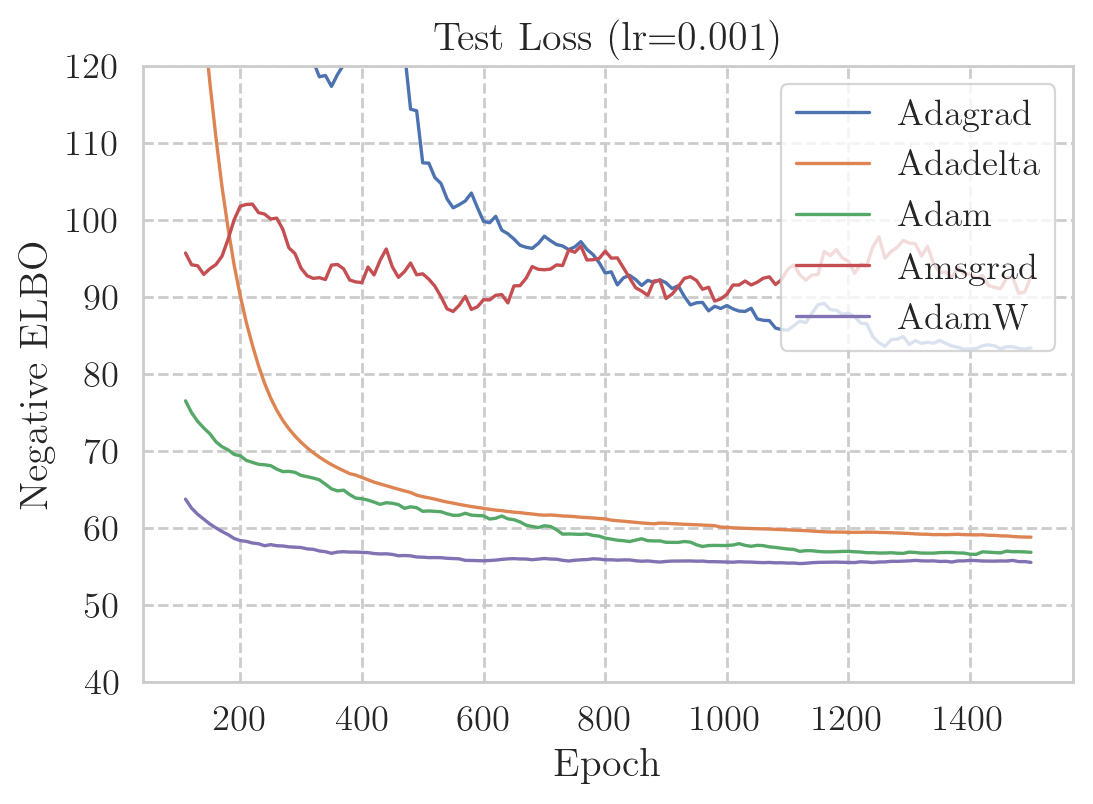
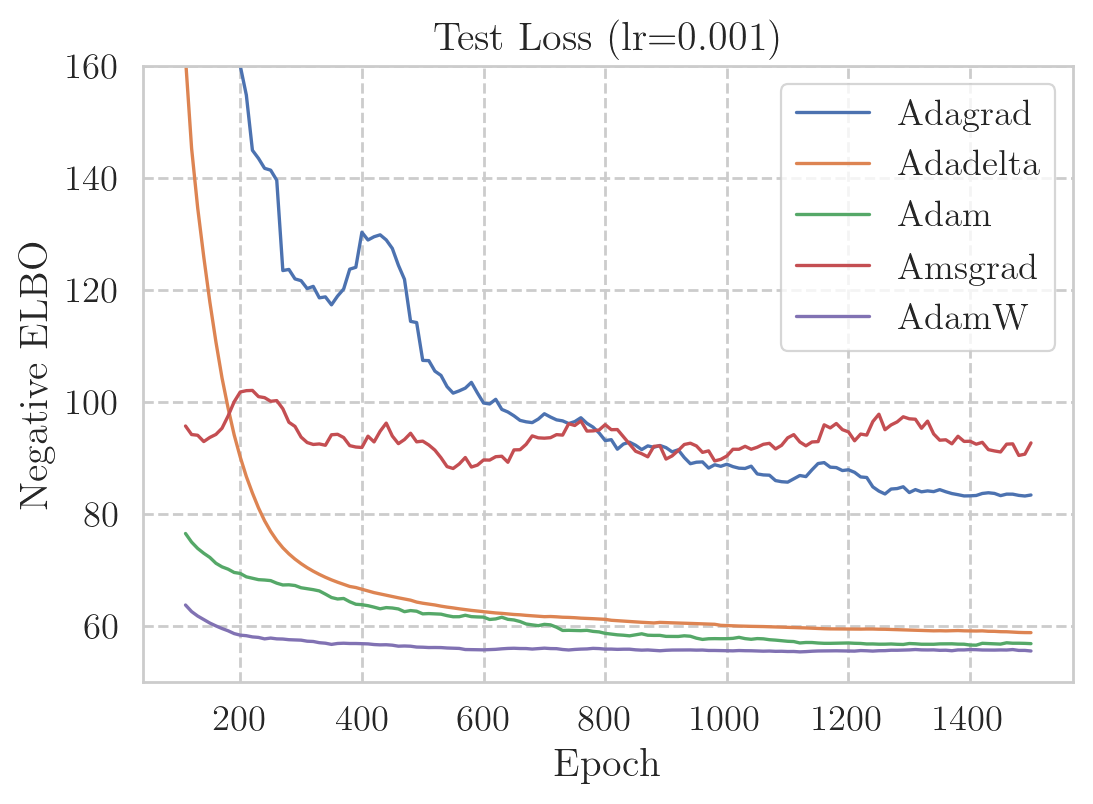
WIP: Fixing a plot for VAE experiment

diff --git a/src/vae/run.py b/src/vae/run.py
@@ -113,7 +113,7 @@ def plot_loss_curves(split, lrs):
             smooth=100 if split == 'train' else 10,
             skip_first=100 if split == 'train' else 10,
             set_kwargs={
-                'ylim': (40, 120),
+                'ylim': (40, 120) if split == 'train' else (50, 160),
                 'title': f'Training Loss (lr={lr})' if split == 'train' else f'Test Loss (lr={lr})',
                 'xlabel': 'Step' if split == 'train' else 'Epoch',
                 'ylabel': 'Negative ELBO',
